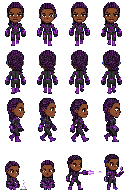
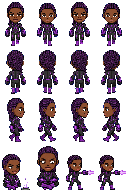
fix: mirror-based walk frames for all chars + fix broken Loki/Shuri activity frames + block 4 small furniture items

diff --git a/public/assets/pixel-office/engine.js b/public/assets/pixel-office/engine.js
@@ -94,8 +94,8 @@
     { type:'COFFEE_TABLE',     col:4,  row:4, file:'COFFEE_TABLE/COFFEE_TABLE.png',         w:2, h:2 },
     { type:'COFFEE',           col:4,  row:4, file:'COFFEE/COFFEE.png',                     w:1, h:1, blocks:false },
     { type:'COFFEE',           col:5,  row:4, file:'COFFEE/COFFEE.png',                     w:1, h:1, blocks:false },
-    { type:'CUSHIONED_BENCH',  col:3,  row:5, file:'CUSHIONED_BENCH/CUSHIONED_BENCH.png',   w:1, h:1, blocks:false },
-    { type:'CUSHIONED_BENCH',  col:4,  row:6, file:'CUSHIONED_BENCH/CUSHIONED_BENCH.png',   w:1, h:1, blocks:false },
+    { type:'CUSHIONED_BENCH',  col:3,  row:5, file:'CUSHIONED_BENCH/CUSHIONED_BENCH.png',   w:1, h:1, blocks:true },
+    { type:'CUSHIONED_BENCH',  col:4,  row:6, file:'CUSHIONED_BENCH/CUSHIONED_BENCH.png',   w:1, h:1, blocks:true },
 
     // Samantha command station (top-center)
     { type:'DESK',             col:10, row:3, file:'DESK/DESK_FRONT.png',                   w:3, h:2 },
@@ -134,8 +134,8 @@
     { type:'PLANT',            col:21, row:8, file:'PLANT/PLANT.png',                       w:1, h:2 },
     { type:'PLANT_2',          col:19, row:10,file:'PLANT_2/PLANT_2.png',                   w:1, h:2 },
     { type:'CACTUS',           col:18, row:11,file:'CACTUS/CACTUS.png',                     w:1, h:2 },
-    { type:'POT',              col:20, row:11,file:'POT/POT.png',                           w:1, h:1, blocks:false },
-    { type:'BIN',              col:22, row:12,file:'BIN/BIN.png',                           w:1, h:1, blocks:false },
+    { type:'POT',              col:20, row:11,file:'POT/POT.png',                           w:1, h:1, blocks:true },
+    { type:'BIN',              col:22, row:12,file:'BIN/BIN.png',                           w:1, h:1, blocks:true },
   ];
 
   // ── State ──────────────────────────────────────────────────
